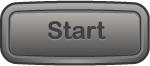
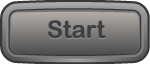
Menu screen have exit button

diff --git a/core/src/com/mygdx/game/screens/MenuScreen.java b/core/src/com/mygdx/game/screens/MenuScreen.java
@@ -1,5 +1,6 @@
 package com.mygdx.game.screens;
 
+import com.badlogic.gdx.Gdx;
 import com.badlogic.gdx.graphics.Texture;
 import com.badlogic.gdx.scenes.scene2d.ui.Image;
 import com.mygdx.game.MyGdxGame;
@@ -11,9 +12,6 @@ import com.mygdx.game.screens.ui.IClickCallback;
  */
 public class MenuScreen extends AbstractScreen
 {
-	private Image menuImg;
-	private GameButton newGame;
-
 	public MenuScreen(final MyGdxGame game)
 	{
 		super(game);
@@ -21,10 +19,31 @@ public class MenuScreen extends AbstractScreen
 
 	protected void init()
 	{
-		menuImg = new Image(new Texture("map/menu.png"));
+		Image menuImg = new Image(new Texture("map/menu.png"));
 		stage.addActor(menuImg);
 
-		newGame = new GameButton.Builder(new IClickCallback()
+		initNewGame();
+		initExitGame();
+	}
+
+	private void initExitGame()
+	{
+		GameButton exitGame = new GameButton.Builder(new IClickCallback()
+		{
+
+			@Override
+			public void onClick()
+			{
+				Gdx.app.exit();
+			}
+		}).position(500, 200).height(64).width(150).debug(false).image("exit.png").build();
+
+		stage.addActor(exitGame);
+	}
+
+	private void initNewGame()
+	{
+		GameButton newGame = new GameButton.Builder(new IClickCallback()
 		{
 			@Override
 			public void onClick()
@@ -32,7 +51,7 @@ public class MenuScreen extends AbstractScreen
 				game.setScreen(new GameplayScreen(game));
 
 			}
-		}).position(500, 300).height(66).width(150).debug(false).image("start.png").build();
+		}).position(500, 300).height(64).width(150).debug(false).image("start.png").build();
 
 		stage.addActor(newGame);
 	}
